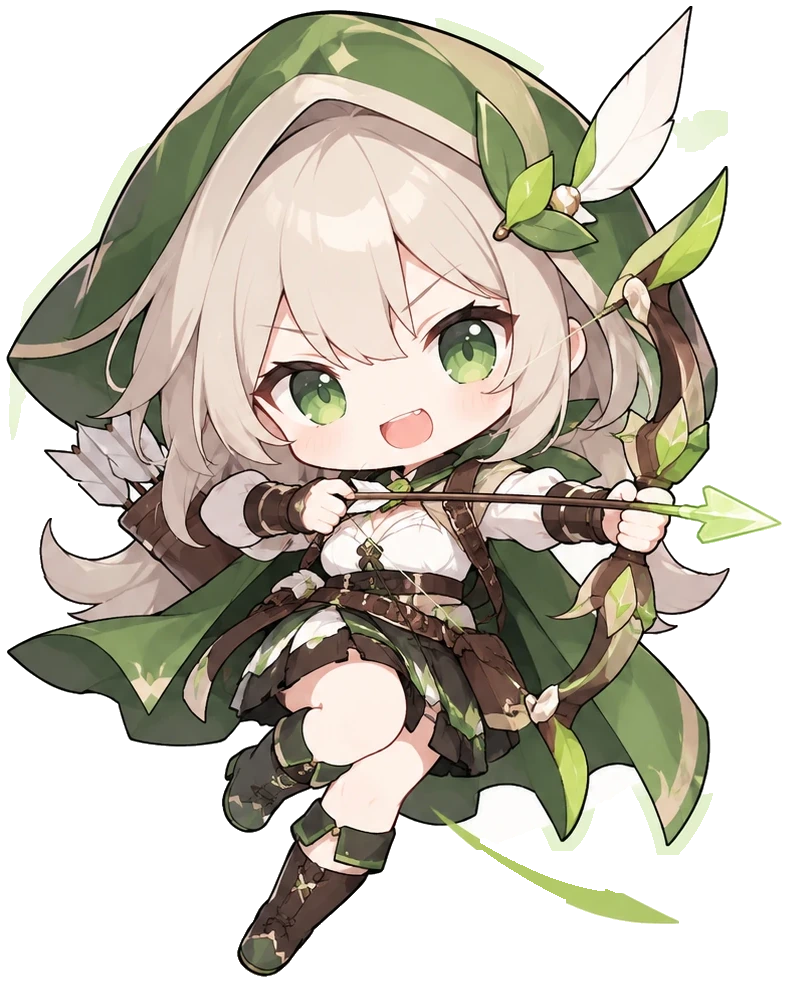
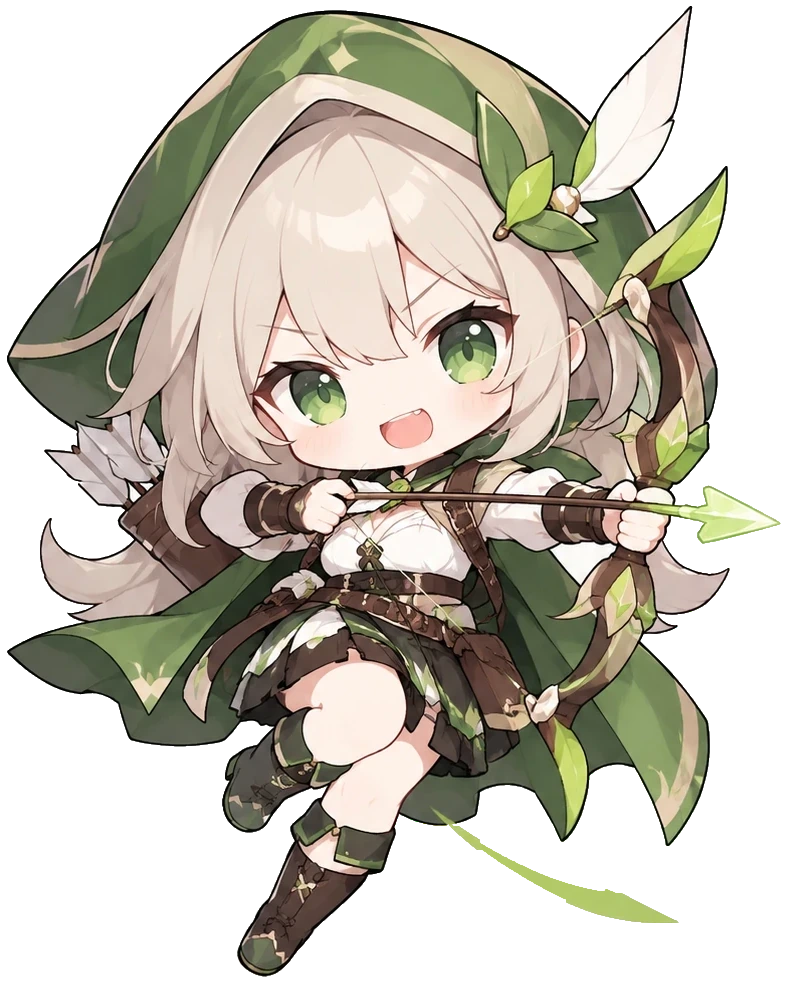
궁수탑 캐릭터 누끼를 다시 딴다 — 윤곽선 바깥 옅은 테두리와 배경 조각 제거
Claude-Session: https://claude.ai/code/session_018UsErY9cojSUdfmULNsdxZ

diff --git a/src/game/updates.js b/src/game/updates.js
@@ -14,6 +14,7 @@ export const UPDATES = [
       "화염탑 화상 도트 피해가 단계마다 15% · 20% · 25% · 30% 늘었습니다.",
       "성기사탑이 보스 결전에서 스킬을 쓰면 사거리 안의 아군 모두가 각자 체력의 60% 보호막을 받습니다.",
       "보급소 — 긴급 보급 골드가 45에서 60으로, 성채 회복량과 이웃 탑 강화 효과가 단계마다 15%씩 커집니다(이전의 단계별 ×1.1은 이 규칙으로 대체).",
+      "궁수탑 캐릭터 그림의 누끼를 다시 땄습니다. 가장자리에 남아 있던 옅은 테두리와 배경 찌꺼기가 없어졌습니다.",
     ],
   },
   {

diff --git a/tools/recut-character.py b/tools/recut-character.py
@@ -1,0 +1,71 @@
+"""캐릭터 그림의 누끼(투명 배경)를 다시 딴다 — 윤곽선 바깥에 남은 옅은 초록빛 흰 테두리를 지우고 가장자리를 부드럽게 만든다.
+   쓰는 법:  python3 tools/recut-character.py <원본.webp> <결과.webp> [깊이=120] [pockets 최소크기]
+   - 깊이: 바깥에서 안으로 옅은 테두리를 따라 들어갈 최대 거리(px)
+   - pockets: 활과 팔 사이처럼 닫힌 윤곽 안에 갇힌 옅은 배경 조각도 지운다(최소크기 px 이상인 덩어리만)
+   결과는 무손실이라 파일이 크다. 게임에 쓸 때는 Pillow 로 WEBP quality=92, alpha_quality=100 으로 다시 저장한다.
+   (numpy · scipy · Pillow 필요) """
+import sys, numpy as np
+from PIL import Image, ImageFilter
+from collections import deque
+src, dst = sys.argv[1], sys.argv[2]
+DEPTH = int(sys.argv[3]) if len(sys.argv) > 3 else 120
+im = Image.open(src).convert("RGBA")
+a = np.asarray(im).astype(np.float32)
+rgb, al = a[..., :3], a[..., 3]
+H, W = al.shape
+lum = rgb @ np.array([0.299, 0.587, 0.114], dtype=np.float32)
+mn = rgb.min(axis=2)
+solid = al > 127
+# 바깥에서 안으로: 옅고 밝은 픽셀만 타고 들어가되 어두운 윤곽선에서 멈춘다
+g = rgb[..., 1]; rb = np.maximum(rgb[..., 0], rgb[..., 2])
+# 테두리 잔여물은 초록빛이 도는 흰색 · 순백이고, 캐릭터의 흰 부분(깃털 · 화살깃 · 셔츠)은 분홍 · 보랏빛이라 색으로 가른다
+pale = solid & (lum > 190) & (mn > 150) & (g >= rb - 3)
+dist = np.full((H, W), -1, np.int16)
+q = deque()
+for y in range(H):
+    for x in range(W):
+        if not solid[y, x]:
+            dist[y, x] = 0; q.append((y, x))
+removed = np.zeros((H, W), bool)
+while q:
+    y, x = q.popleft()
+    d = dist[y, x]
+    if d >= DEPTH: continue
+    for dy, dx in ((1,0),(-1,0),(0,1),(0,-1)):
+        ny, nx = y+dy, x+dx
+        if 0 <= ny < H and 0 <= nx < W and dist[ny, nx] < 0 and pale[ny, nx]:
+            dist[ny, nx] = d + 1; removed[ny, nx] = True; q.append((ny, nx))
+keep = solid & ~removed
+pk = np.zeros((H, W), bool)
+# 닫힌 윤곽 안에 갇힌 옅은 배경 조각(활과 팔 사이 등)도 지운다 — 크기가 어느 정도 이상인 초록빛 흰색 덩어리만
+if len(sys.argv) > 4 and sys.argv[4] == "pockets":
+    from scipy import ndimage as _nd
+    lab0, n0 = _nd.label(pale & keep)
+    for i in range(1, n0 + 1):
+        comp = lab0 == i
+        if comp.sum() >= int(sys.argv[5]) if len(sys.argv) > 5 else 150:
+            keep &= ~comp
+            pk |= comp
+# 떨어진 작은 조각 지우기
+from scipy import ndimage
+lab, n = ndimage.label(keep)
+sizes = ndimage.sum(keep, lab, range(1, n+1))
+big = sizes.max()
+for i, s in enumerate(sizes, 1):
+    if s < big * 0.004: keep[lab == i] = False
+# 윤곽선 바로 바깥에 남은 한 겹짜리 밝은 테두리(뒤에 어두운 윤곽선이 받치고 있을 때만)를 두 번 깎는다
+for _ in range(4):
+    edge = keep & ~ndimage.binary_erosion(keep, iterations=1, border_value=0)
+    l2 = np.where(keep, lum, 255).astype(np.float32)
+    behind = ndimage.minimum_filter(l2, size=5)
+    keep = keep & ~(edge & (lum > 165) & (behind < 120))
+# 구멍 메우기(캐릭터 안쪽)
+keep = ndimage.binary_fill_holes(keep) & ~pk      # 지운 갇힌 조각은 구멍으로 다시 메우지 않는다
+# 부드러운 가장자리: 마스크를 살짝 흐려 알파로 (색은 원래 윤곽선 색을 그대로 둔다)
+m = Image.fromarray((keep * 255).astype(np.uint8)).filter(ImageFilter.GaussianBlur(0.7))
+m = np.asarray(m).astype(np.float32) / 255
+alpha = np.clip((m - 0.25) / 0.5, 0, 1)
+alpha = np.minimum(alpha, np.where(keep, 1, alpha))
+res = np.dstack([rgb, alpha * 255]).clip(0, 255).astype(np.uint8)
+Image.fromarray(res, "RGBA").save(dst, "WEBP", lossless=True, quality=100, method=6)
+print("제거한 옅은 테두리 픽셀", int(removed.sum()), "· 남은 조각 수", int(ndimage.label(keep)[1]))
